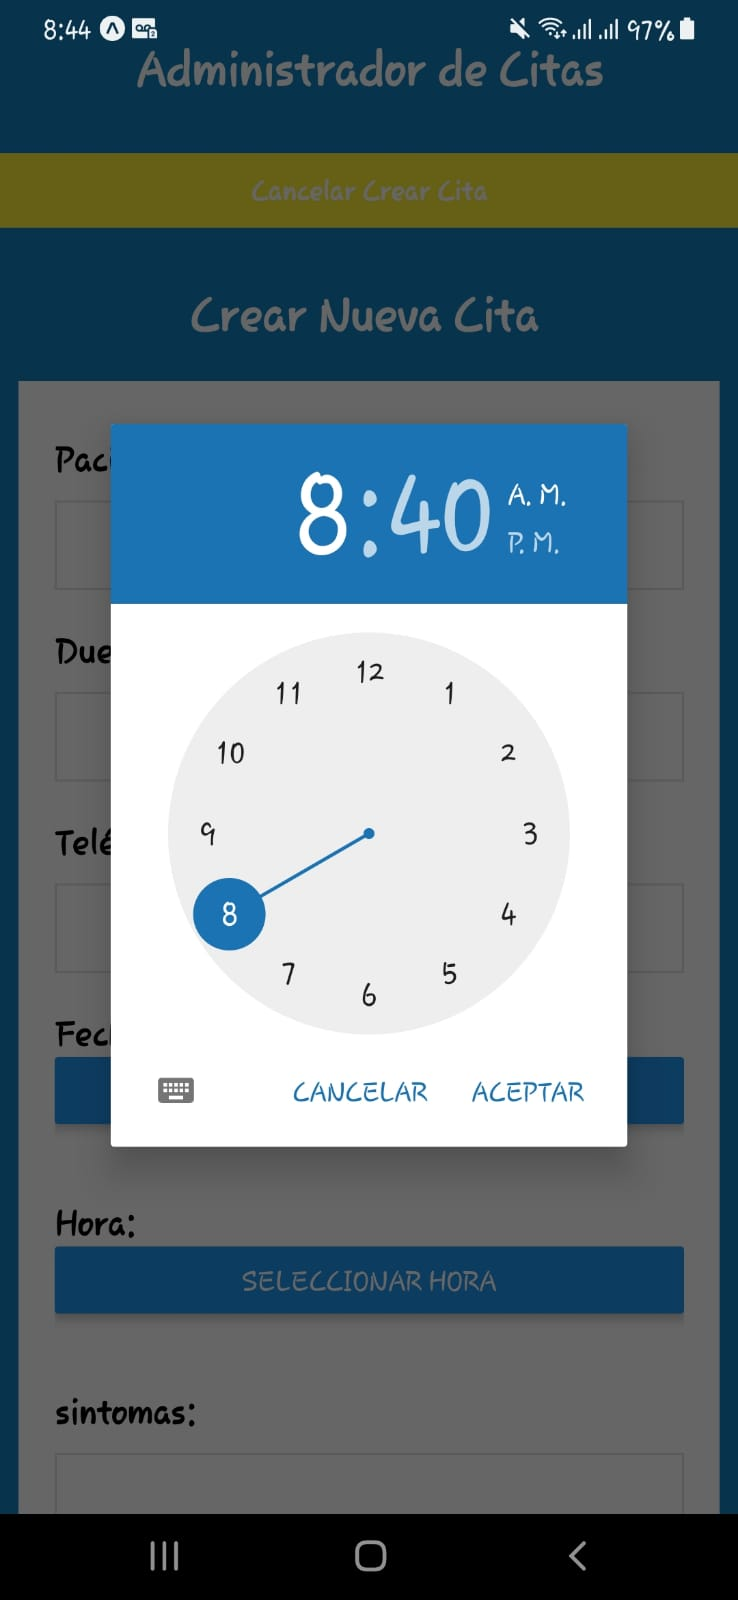
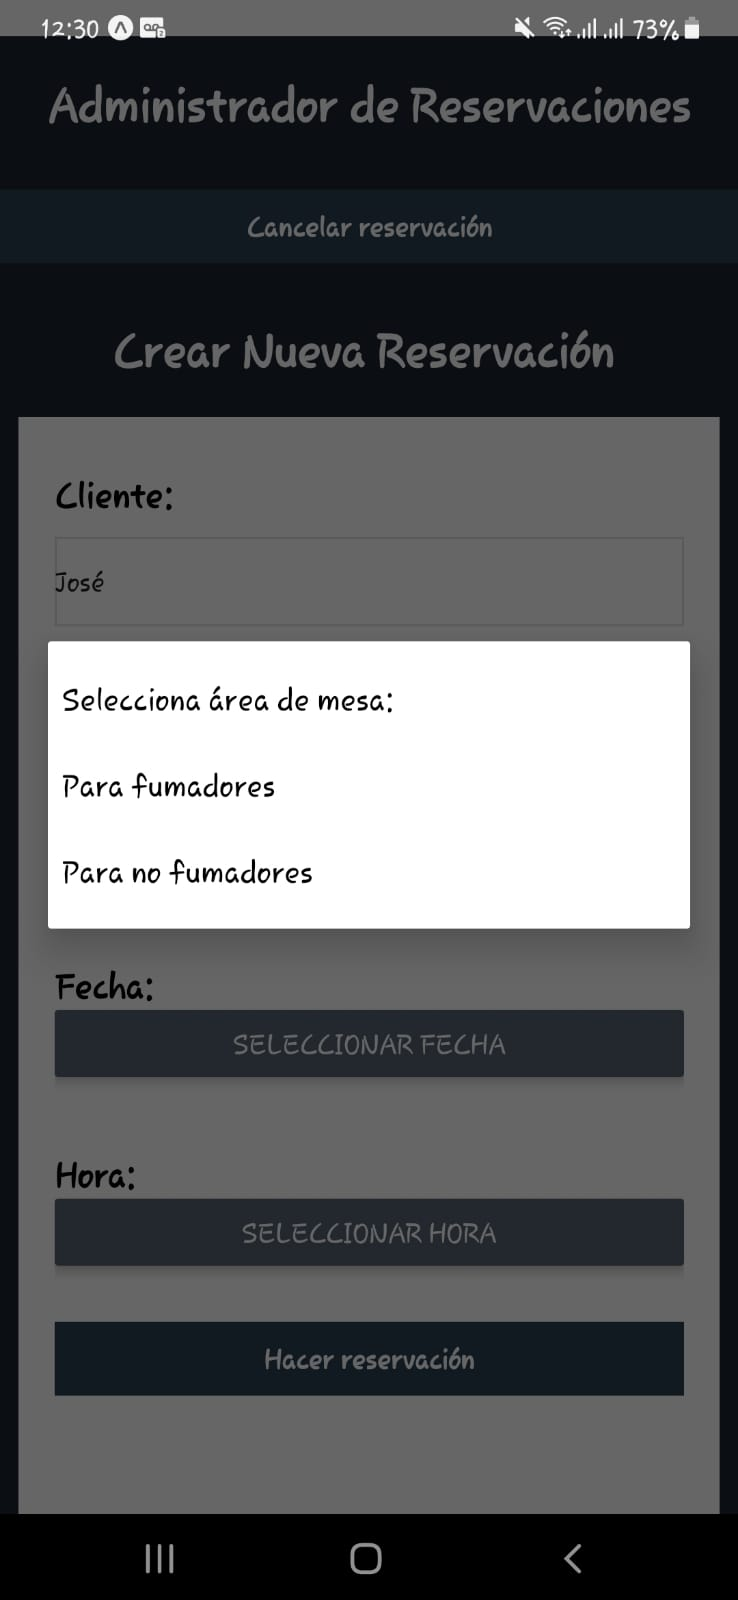
Guia 5 ejercicio complementario, reservaciones restaurante

diff --git a/components/Formulario.js b/components/Formulario.js
@@ -3,15 +3,15 @@ import {Text, StyleSheet, View, TextInput, Button, TouchableHighlight, Alert, Sc
 import DateTimePickerModal from 'react-native-modal-datetime-picker';
 import shortid from 'shortid';
 import Colors from '../src/utils/Colors';
+import RNPickerSelect from 'react-native-picker-select';
 
 const Formulario = ({citas, setCitas, guardarMostrarForm, guardarCitasStorage}) => {
     //variables para el formulario
     const [paciente, guardarPaciente] = useState('');
-    const [propietario, guardarPropietario] = useState('');
     const [telefono, guardarTelefono] = useState('');
     const [fecha, guardarFecha] = useState('');
     const [hora, guardarHora] = useState('');
-    const [sintomas, guardarSintomas] = useState('');
+    const [seccion, guardarSeccion] = useState(''); //tipo de seccion (fumadores/no fumadores)
 
     const [isDatePickerVisible, setDatePickerVisibility] = useState(false);
     const [isTimePickerVisible, setTimePickerVisibility] = useState(false);
@@ -49,11 +49,10 @@ const Formulario = ({citas, setCitas, guardarMostrarForm, guardarCitasStorage}) 
     const crearNuevaCita = () => {
         //Validar
         if(paciente.trim() === '' ||
-            propietario.trim() === '' ||
             telefono.trim() === '' ||
             fecha.trim() === '' ||
             hora.trim() === '' ||
-            sintomas.trim() === '')
+            seccion.trim() === '')
             {
                 //Falla la validación
                 mostrarAlerta();
@@ -61,7 +60,7 @@ const Formulario = ({citas, setCitas, guardarMostrarForm, guardarCitasStorage}) 
             }
 
             //Crear una nueva cita
-            const cita = { paciente, propietario, telefono, fecha, hora, sintomas };
+            const cita = { paciente, telefono, fecha, hora, seccion };
             cita.id = shortid.generate();
 
             //Agregar al state
@@ -75,13 +74,12 @@ const Formulario = ({citas, setCitas, guardarMostrarForm, guardarCitasStorage}) 
             guardarMostrarForm(false);
 
             //Resetear el formulario
-            guardarSintomas('');
-            guardarPropietario('');
             guardarPaciente('');
             guardarHora('');
             guardarFecha('');
             guardarTelefono('');
-        }
+            guardarSeccion('');
+        };
 
         //Muestra la alerta si falla la validación
         const mostrarAlerta = () =>{
@@ -98,7 +96,7 @@ const Formulario = ({citas, setCitas, guardarMostrarForm, guardarCitasStorage}) 
             <>
             <ScrollView style={styles.formulario}>
                 <View>
-                    <Text style={styles.label}>Paciente:</Text>
+                    <Text style={styles.label}>Cliente:</Text>
                     <TextInput
                         style={styles.input}
                         onChangeText={ texto => guardarPaciente(texto) }
@@ -106,15 +104,7 @@ const Formulario = ({citas, setCitas, guardarMostrarForm, guardarCitasStorage}) 
                 </View>
 
                 <View>
-                    <Text style={styles.label}>Dueño:</Text>
-                    <TextInput
-                        style={styles.input}
-                        onChangeText={ texto => guardarPropietario(texto) }
-                    />
-                </View>
-
-                <View>
-                    <Text style={styles.label}>Teléfono Contacto:</Text>
+                    <Text style={styles.label}>Cantidad de personas:</Text>
                     <TextInput
                         style={styles.input}
                         onChangeText={ texto => guardarTelefono(texto) }
@@ -123,8 +113,20 @@ const Formulario = ({citas, setCitas, guardarMostrarForm, guardarCitasStorage}) 
                 </View>
 
                 <View>
+                    <RNPickerSelect
+                    style={pickerSelect}
+                    onValueChange={(value) => guardarSeccion(value)}
+                    placeholder={{ label: "Selecciona área de mesa: ", value: ""}}
+                    items={[
+                        { label: "Para fumadores", value: "Fumadores" },
+                        { label: "Para no fumadores", value: "No fumadores" },
+                    ]}
+                    />
+                </View>
+
+                <View>
                     <Text style={styles.label}>Fecha:</Text>
-                    <Button title="Seleccionar Fecha" onPress={showDatePicker} />
+                    <Button color="#566573" title="Seleccionar Fecha" onPress={showDatePicker} />
                     <DateTimePickerModal
                         isVisible={isDatePickerVisible}
                         mode="date"
@@ -140,7 +142,7 @@ const Formulario = ({citas, setCitas, guardarMostrarForm, guardarCitasStorage}) 
 
                 <View>
                     <Text style={styles.label}>Hora:</Text>
-                    <Button title="Seleccionar Hora" onPress={showTimePicker}/>
+                    <Button color="#566573" title="Seleccionar Hora" onPress={showTimePicker}/>
                     <DateTimePickerModal
                         isVisible={isTimePickerVisible}
                         mode="time"
@@ -155,17 +157,9 @@ const Formulario = ({citas, setCitas, guardarMostrarForm, guardarCitasStorage}) 
                 </View>
 
                 <View>
-                    <Text style={styles.label}>sintomas:</Text>
-                    <TextInput
-                        multiline
-                        style={styles.input}
-                        onChangeText={texto => guardarSintomas(texto)}
-                    />
-                </View>
-                <View>
                     <TouchableHighlight onPress={ () => crearNuevaCita() }
                         style={styles.btnSubmit}>
-                            <Text style={styles.textoSubmit}>Crear Nueva Cita</Text>
+                            <Text style={styles.textoSubmit}>Hacer reservación</Text>
                         </TouchableHighlight>
                 </View>
             </ScrollView>
@@ -201,7 +195,39 @@ const Formulario = ({citas, setCitas, guardarMostrarForm, guardarCitasStorage}) 
                 color: '#FFF',
                 fontWeight: 'bold',
                 textAlign: 'center'
-            }
-        })
+            },
+        });
+
+        const pickerSelect = StyleSheet.create({
+            inputIOS: {
+                marginTop: 20,
+                fontSize: 16,
+                paddingVertical: 12,
+                paddingHorizontal: 10,
+                borderWidth: 1,
+                borderColor: "grey",
+                borderRadius: 4,
+                color: "black",
+                paddingRight: 30,
+                backgroundColor:'#566573',
+                marginLeft: -5,
+                marginRight: -5,
+        },
+        inputAndroid: {
+                marginTop: 20,
+                fontSize: 16,
+                height:30,
+                paddingHorizontal: 10,
+                paddingVertical: 8,
+                borderWidth: 1,
+                borderColor: "#fff",
+                borderRadius: 8,
+                color: "#fff",
+                paddingRight: 30,
+                backgroundColor:'#566573',
+                borderStyle:'solid',
+                height:40
+        },
+    });
 
         export default Formulario;

diff --git a/App.js b/App.js
@@ -54,14 +54,14 @@ const App = () => {
   return (
     <TouchableWithoutFeedback onPress={() => cerrarTeclado()}>
       <View style={styles.contenedor}>
-        <Text style={styles.titulo}>Administrador de Citas</Text>
+        <Text style={styles.titulo}>Administrador de Reservaciones</Text>
 
         <View>
           <TouchableHighlight onPress={ () => mostrarFormulario()}
           style={styles.btnMostrarForm}>
           <Text
           style={styles.textoMostrarForm}>
-          {mostrarform ? 'Cancelar Crear Cita' : 'Crear Nueva Cita'}
+          {mostrarform ? 'Cancelar reservación' : 'Crear nueva reservación'}
           </Text>
           </TouchableHighlight>
         </View>
@@ -69,7 +69,7 @@ const App = () => {
         <View style={styles.contenido}>
           {mostrarform ? (
             <>
-            <Text style={styles.titulo}>Crear Nueva Cita </Text>
+            <Text style={styles.titulo}>Crear Nueva Reservación </Text>
             <Formulario
             citas={citas}
             setCitas={setCitas}
@@ -79,8 +79,8 @@ const App = () => {
             </>
           ) : (
             <>
-            <Text style={styles.titulo}>{citas.length > 0 ? 'Administra tus citas' :
-            'No hay citas, agrega una'}</Text>
+            <Text style={styles.titulo}>{citas.length > 0 ? 'Administra tus reservas' :
+            'No hay reservas, agrega una'}</Text>
             <FlatList
             style={styles.listado}
             data={citas}
@@ -98,6 +98,7 @@ const App = () => {
 };
 const styles = StyleSheet.create({
   contenedor: {
+    marginTop:20,
     backgroundColor: Colors.PRIMARY_COLOR,
     flex: 1,
   },

diff --git a/components/Cita.js b/components/Cita.js
@@ -12,16 +12,16 @@ const Cita = ({ item, eliminarPaciente }) => {
   <ScrollView>
     <View style={styles.cita}>
      <View>
-        <Text style={styles.label}>Paciente:</Text>
+        <Text style={styles.label}>Cliente:</Text>
         <Text style={styles.texto}>{item.paciente}</Text>
       </View>
       <View>
-        <Text style={styles.label}>Propietario:</Text>
-        <Text style={styles.texto}>{item.propietario}</Text>
+        <Text style={styles.label}>Mesa para:</Text>
+        <Text style={styles.texto}>{item.telefono} personas</Text>
       </View>
       <View>
-        <Text style={styles.label}>Síntomas:</Text>
-        <Text style={styles.texto}>{item.sintomas}</Text>
+        <Text style={styles.label}>Tipo de sección:</Text>
+        <Text style={styles.texto}>{item.seccion}</Text>
       </View>
       <View>
         <Text style={styles.label}>Fecha:</Text>
@@ -62,7 +62,7 @@ const styles = StyleSheet.create({
     },
     btnEliminar:{
         padding:10,
-        backgroundColor:'red',
+        backgroundColor:'#82E0AA',
         marginVertical:10
     },
     textoEliminar:{

diff --git a/src/utils/Colors.js b/src/utils/Colors.js
@@ -1,4 +1,4 @@
 export default{
-    PRIMARY_COLOR: '#1181BF',
-    BUTTON_COLOR: '#FFEF36',
+    PRIMARY_COLOR: '#1B2631',
+    BUTTON_COLOR: '#2E4053',
 }
